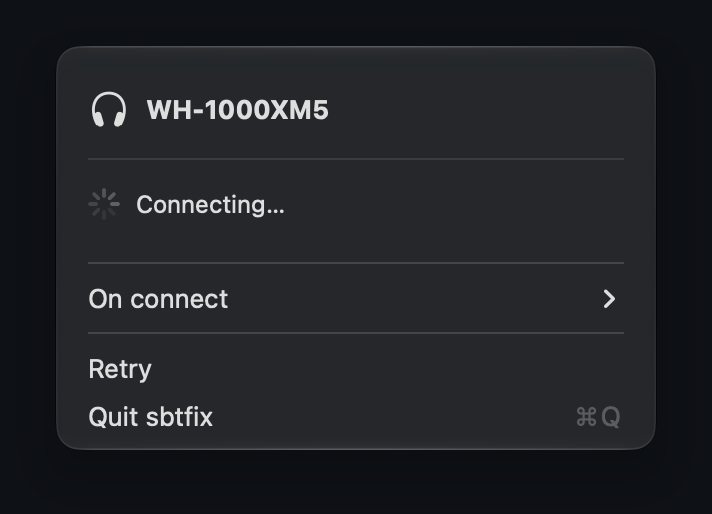
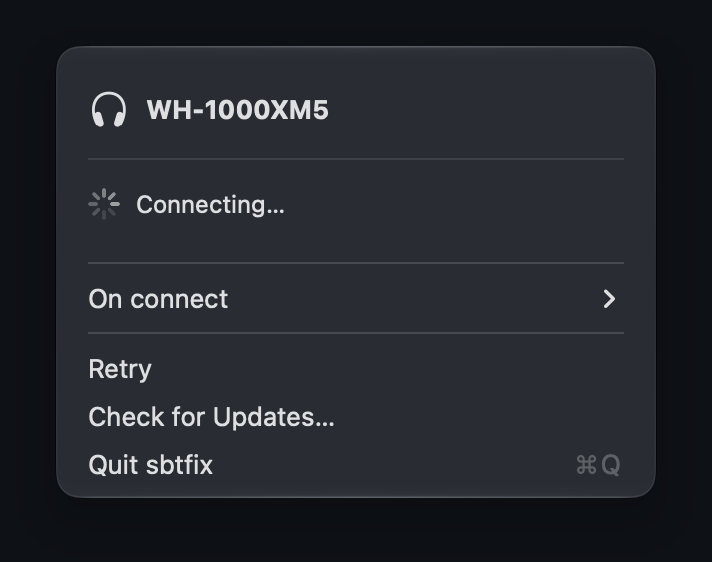
Check for Updates
A menu item asks GitHub for the latest release and offers to install a
newer one. It only goes online when clicked: there are no background
checks, so the app stays offline otherwise.

The download has to be an intact copy of this app at the release's
version before it replaces the running app. The old copy then frees the
control channel, opens the new one and quits.

Tested with a real self-replace in /Applications, on macOS 27 with an
ad-hoc signed app, and with broken downloads, which all left the app
untouched. Release asset name and version are documented in CONTRIBUTING.

Regenerate the screenshots, since every menu has the new item, and drop
finished items from the roadmap.

diff --git a/Sources/sbtfix/Updater.swift b/Sources/sbtfix/Updater.swift
@@ -1,0 +1,136 @@
+import AppKit
+
+/// A release, as returned by GitHub's releases API.
+struct Release: Decodable {
+    struct Asset: Decodable {
+        let name: String
+        let browserDownloadUrl: URL
+    }
+
+    let tagName: String
+    let assets: [Asset]
+
+    var version: String { tagName.hasPrefix("v") ? String(tagName.dropFirst()) : tagName }
+
+    func isNewer(than current: String) -> Bool {
+        version.compare(current, options: .numeric) == .orderedDescending
+    }
+
+    static func decode(_ json: Data) throws -> Release {
+        let decoder = JSONDecoder()
+        decoder.keyDecodingStrategy = .convertFromSnakeCase
+        return try decoder.decode(Release.self, from: json)
+    }
+}
+
+/// "Check for Updates…": offers the latest GitHub release and installs it over the running app.
+/// Only runs when the user asks, and it's the app's only network access.
+///
+/// Releases are ad-hoc signed, so the signature check catches a damaged download but can't prove who
+/// built it. What guarantees the source is HTTPS from this repository.
+@MainActor
+enum Updater {
+    private nonisolated static let latestRelease = URL(string: "https://api.github.com/repos/NiedielnitsevIvan/sbtfix/releases/latest")!
+    private static let releasesPage = URL(string: "https://github.com/NiedielnitsevIvan/sbtfix/releases/latest")!
+    private static var isRunning = false
+
+    static func check(_ controller: HeadphoneController) async {
+        guard !isRunning else { return }
+        isRunning = true
+        defer { isRunning = false }
+        let current = Bundle.main.shortVersion
+        do {
+            let release = try await fetchLatestRelease()
+            guard release.isNewer(than: current) else {
+                show("sbtfix is up to date", "\(current) is the latest version.")
+                return
+            }
+            let answer = show("sbtfix \(release.version) is available",
+                              "You have \(current). sbtfix will restart, and macOS will ask for Bluetooth access again.",
+                              buttons: ["Update and Restart", "Later"])
+            guard answer == .alertFirstButtonReturn else { return }
+            try await install(release)
+            controller.tearDown() // so the new copy can open the control channel right away
+            try await restart()
+        } catch {
+            let answer = show("Couldn't update sbtfix", error.localizedDescription,
+                              buttons: ["Open Releases Page", "Close"])
+            if answer == .alertFirstButtonReturn { NSWorkspace.shared.open(releasesPage) }
+        }
+    }
+
+    private nonisolated static func fetchLatestRelease() async throws -> Release {
+        // The API allows 60 s of caching, which could hide a release published a moment ago.
+        let request = URLRequest(url: latestRelease, cachePolicy: .reloadIgnoringLocalCacheData, timeoutInterval: 15)
+        let (data, response) = try await URLSession.shared.data(for: request)
+        try requireSuccess(response)
+        return try Release.decode(data)
+    }
+
+    /// Replaces the running app, after checking the download is an intact copy of it at that version.
+    private nonisolated static func install(_ release: Release) async throws {
+        guard let asset = release.assets.first(where: { $0.name == "sbtfix.zip" }) else {
+            throw UpdateError("The release has no sbtfix.zip.")
+        }
+        let (zip, response) = try await URLSession.shared.download(from: asset.browserDownloadUrl)
+        try requireSuccess(response)
+        let files = FileManager.default
+        let app = Bundle.main.bundleURL
+        let folder = try files.url(for: .itemReplacementDirectory, in: .userDomainMask, appropriateFor: app, create: true)
+        defer {
+            try? files.removeItem(at: folder)
+            try? files.removeItem(at: zip)
+        }
+        try run("/usr/bin/ditto", "-x", "-k", zip.path, folder.path)
+        let new = folder.appendingPathComponent("sbtfix.app")
+        guard let bundle = Bundle(url: new), bundle.bundleIdentifier == Bundle.main.bundleIdentifier,
+              bundle.shortVersion == release.version else {
+            throw UpdateError("The downloaded app doesn't match the release.")
+        }
+        try run("/usr/bin/codesign", "--verify", "--deep", "--strict", new.path)
+        _ = try files.replaceItemAt(app, withItemAt: new, options: .usingNewMetadataOnly)
+    }
+
+    /// Opens the new copy, then quits. It needs its own instance because this one is still running: a shell
+    /// script that waited for this process to exit never reopened the app in testing.
+    private static func restart() async throws {
+        let configuration = NSWorkspace.OpenConfiguration()
+        configuration.createsNewApplicationInstance = true
+        try await NSWorkspace.shared.openApplication(at: Bundle.main.bundleURL, configuration: configuration)
+        NSApp.terminate(nil)
+    }
+
+    private nonisolated static func requireSuccess(_ response: URLResponse) throws {
+        let status = (response as? HTTPURLResponse)?.statusCode
+        guard status == 200 else { throw UpdateError("GitHub answered with status \(status ?? 0).") }
+    }
+
+    private nonisolated static func run(_ tool: String, _ arguments: String...) throws {
+        let url = URL(fileURLWithPath: tool)
+        let process = try Process.run(url, arguments: arguments)
+        process.waitUntilExit()
+        guard process.terminationStatus == 0 else {
+            throw UpdateError("\(url.lastPathComponent) failed with status \(process.terminationStatus).")
+        }
+    }
+
+    @discardableResult
+    private static func show(_ title: String, _ text: String, buttons: [String] = []) -> NSApplication.ModalResponse {
+        let alert = NSAlert()
+        alert.messageText = title
+        alert.informativeText = text
+        buttons.forEach { alert.addButton(withTitle: $0) }
+        NSApp.activate()
+        return alert.runModal()
+    }
+}
+
+private struct UpdateError: LocalizedError {
+    let errorDescription: String?
+
+    init(_ description: String) { errorDescription = description }
+}
+
+private extension Bundle {
+    var shortVersion: String { object(forInfoDictionaryKey: "CFBundleShortVersionString") as? String ?? "" }
+}

diff --git a/Tests/sbtfixTests/ReleaseTests.swift b/Tests/sbtfixTests/ReleaseTests.swift
@@ -1,0 +1,27 @@
+import XCTest
+@testable import sbtfix
+
+final class ReleaseTests: XCTestCase {
+    func testDecodesGitHubResponse() throws {
+        // Trimmed from api.github.com/repos/NiedielnitsevIvan/sbtfix/releases/latest
+        let json = """
+        {"tag_name": "v1.1.0", "draft": false, "assets": [{"name": "sbtfix.zip", "size": 370784,
+        "browser_download_url": "https://github.com/NiedielnitsevIvan/sbtfix/releases/download/v1.1.0/sbtfix.zip"}]}
+        """
+        let release = try Release.decode(Data(json.utf8))
+        XCTAssertEqual(release.version, "1.1.0")
+        XCTAssertEqual(release.assets.map(\.name), ["sbtfix.zip"])
+        XCTAssertEqual(release.assets.first?.browserDownloadUrl.lastPathComponent, "sbtfix.zip")
+    }
+
+    func testVersionComparison() {
+        func isNewer(_ tag: String, than current: String) -> Bool {
+            Release(tagName: tag, assets: []).isNewer(than: current)
+        }
+        XCTAssertTrue(isNewer("v1.2.0", than: "1.1.0"))
+        XCTAssertTrue(isNewer("v1.10.0", than: "1.9.0"))
+        XCTAssertTrue(isNewer("1.2.0", than: "1.1.0"))
+        XCTAssertFalse(isNewer("v1.1.0", than: "1.1.0"))
+        XCTAssertFalse(isNewer("v1.0.9", than: "1.1.0"))
+    }
+}

diff --git a/Sources/sbtfix/SbtfixApp.swift b/Sources/sbtfix/SbtfixApp.swift
@@ -46,6 +46,7 @@ final class SbtfixApp: NSObject, NSApplicationDelegate, NSMenuDelegate {
         menu.addItem(.separator())
         retryItem.target = self
         menu.addItem(retryItem)
+        menu.addItem(withTitle: "Check for Updates…", action: #selector(checkForUpdates), keyEquivalent: "").target = self
         menu.addItem(withTitle: "Quit sbtfix", action: #selector(NSApplication.terminate), keyEquivalent: "q")
         menu.delegate = self
         retryVisibility = controller.$status.sink { [retryItem] in retryItem.isHidden = $0 == .connected }
@@ -91,6 +92,8 @@ final class SbtfixApp: NSObject, NSApplicationDelegate, NSMenuDelegate {
     }
 
     @objc private func retry() { controller.connect() }
+
+    @objc private func checkForUpdates() { Task { await Updater.check(controller) } }
 
     @objc private func setStartupMode(_ sender: NSMenuItem) {
         if let mode = sender.representedObject as? StartupMode { controller.startupMode = mode }

diff --git a/Package.swift b/Package.swift
@@ -8,5 +8,6 @@ let package = Package(
         .target(name: "SonyProtocol"),
         .executableTarget(name: "sbtfix", dependencies: ["SonyProtocol"]),
         .testTarget(name: "SonyProtocolTests", dependencies: ["SonyProtocol"]),
+        .testTarget(name: "sbtfixTests", dependencies: ["sbtfix"]),
     ]
 )

diff --git a/Sources/sbtfix/HeadphoneController.swift b/Sources/sbtfix/HeadphoneController.swift
@@ -306,7 +306,7 @@ final class HeadphoneController: NSObject, ObservableObject {
         tearDown()
     }
 
-    private func tearDown() {
+    func tearDown() {
         ackTimer?.invalidate()
         ackTimer = nil
         batteryTimer?.invalidate()

diff --git a/README.md b/README.md
@@ -29,7 +29,9 @@ talks to the headphones directly over Bluetooth using the same protocol the phon
 - Reconnects automatically when the headphones connect
 - Liquid Glass design on macOS 26 and later
 - Next to no CPU use in the background
-- No Dock icon, no background daemons, no network access, no dependencies
+- **Check for Updates** installs the latest release from GitHub
+- No Dock icon, no background daemons, no dependencies, and no network access until you click
+  Check for Updates
 
 ## Screenshots
 
@@ -144,7 +146,9 @@ Sources/
   sbtfix/
     HeadphoneController.swift   IOBluetooth RFCOMM connection, command queue, state
     SbtfixApp.swift        Status-item menu hosting the SwiftUI panel
+    Updater.swift          Check for Updates
 Tests/SonyProtocolTests/        Protocol tests (swift test)
+Tests/sbtfixTests/              Update check tests (swift test)
 ```
 
 ## Contributing

diff --git a/CONTRIBUTING.md b/CONTRIBUTING.md
@@ -72,13 +72,14 @@ swift Resources/make-icon.swift
    git tag v1.1.0 && git push origin main v1.1.0
    ```
 3. The Release workflow tests, builds and stamps the version, then publishes `sbtfix.zip` with
-   that changelog section as the release notes.
+   that changelog section as the release notes. Check for Updates needs that asset name, and the
+   app inside it must have the tag's version.
 
 ## Ideas / roadmap
 
-- Equalizer presets and custom bands
+- Equalizer custom bands
 - DSEE Extreme, connection quality (LDAC / priority on stable connection)
 - Automatic power off, pause when taken off
 - Speak-to-Chat sensitivity and timeout
 - Global keyboard shortcut to cycle modes
-- App icon, notarized releases, Homebrew cask
+- Notarized releases, Homebrew cask

diff --git a/CHANGELOG.md b/CHANGELOG.md
@@ -3,6 +3,7 @@
 ## Unreleased
 
 - Equalizer submenu with the WH-1000XM4 presets. Other v1 models may work too, but aren't tested.
+- Check for Updates installs the latest GitHub release. It only goes online when you click it.
 
 ## 1.1.0
 
